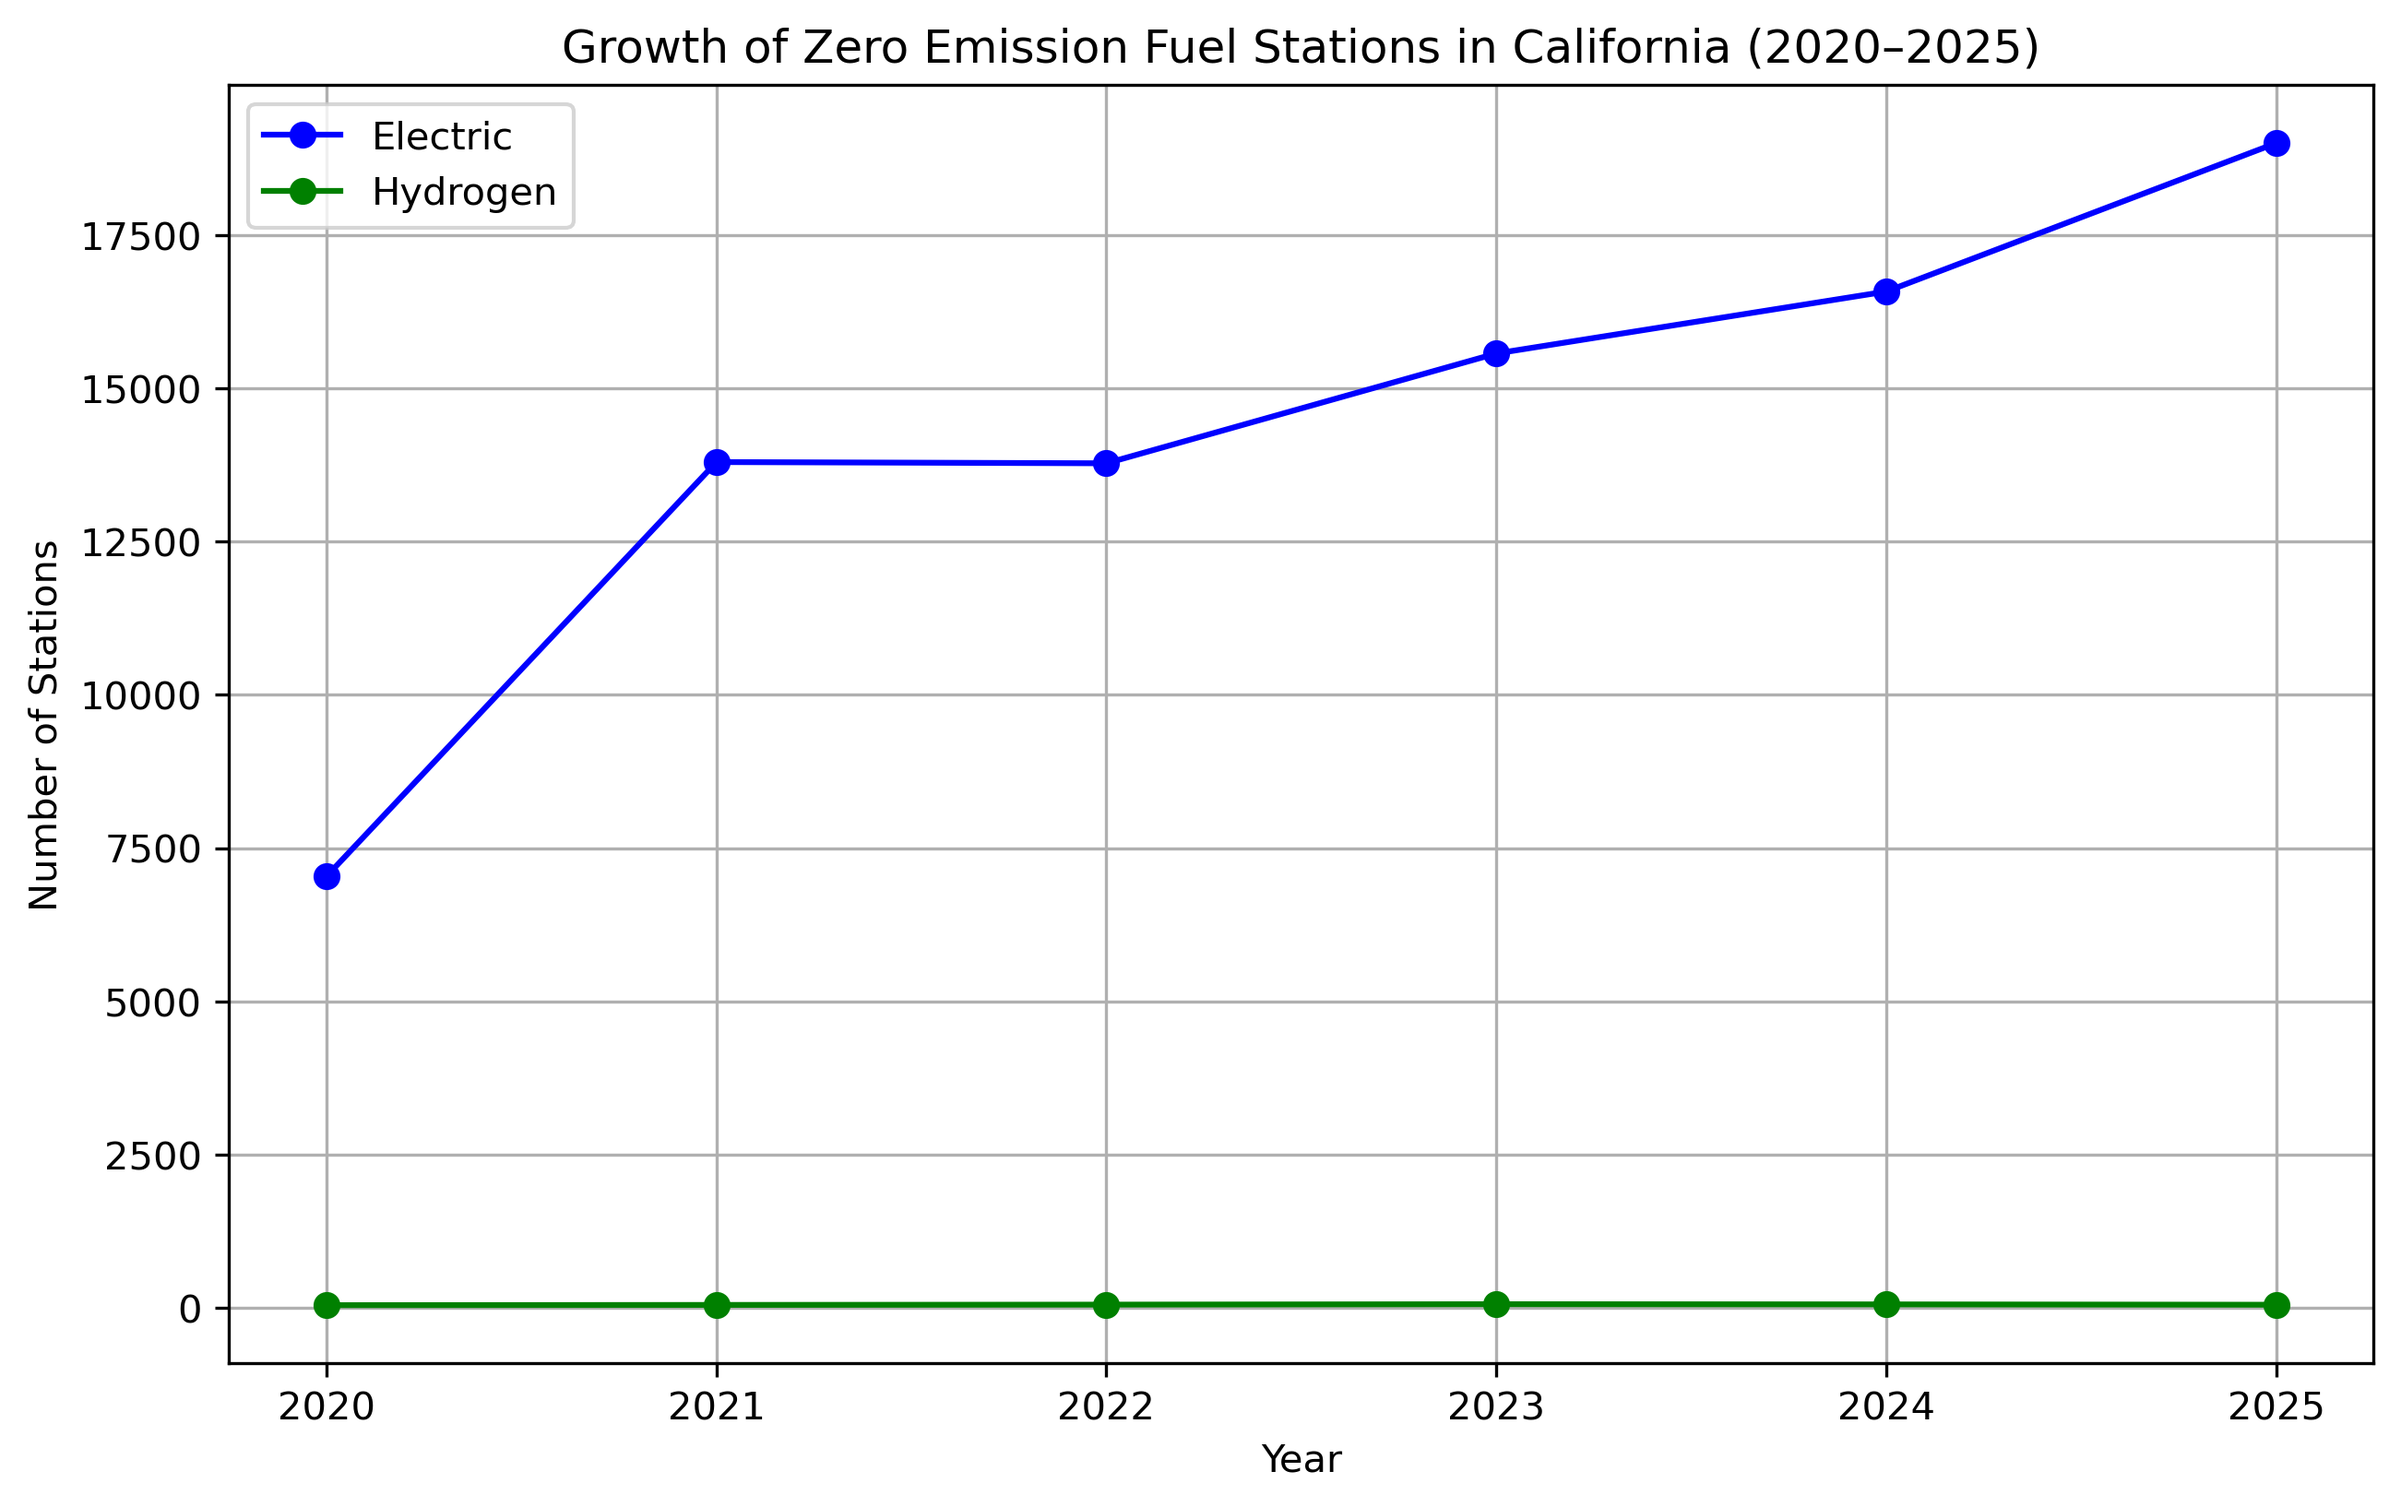
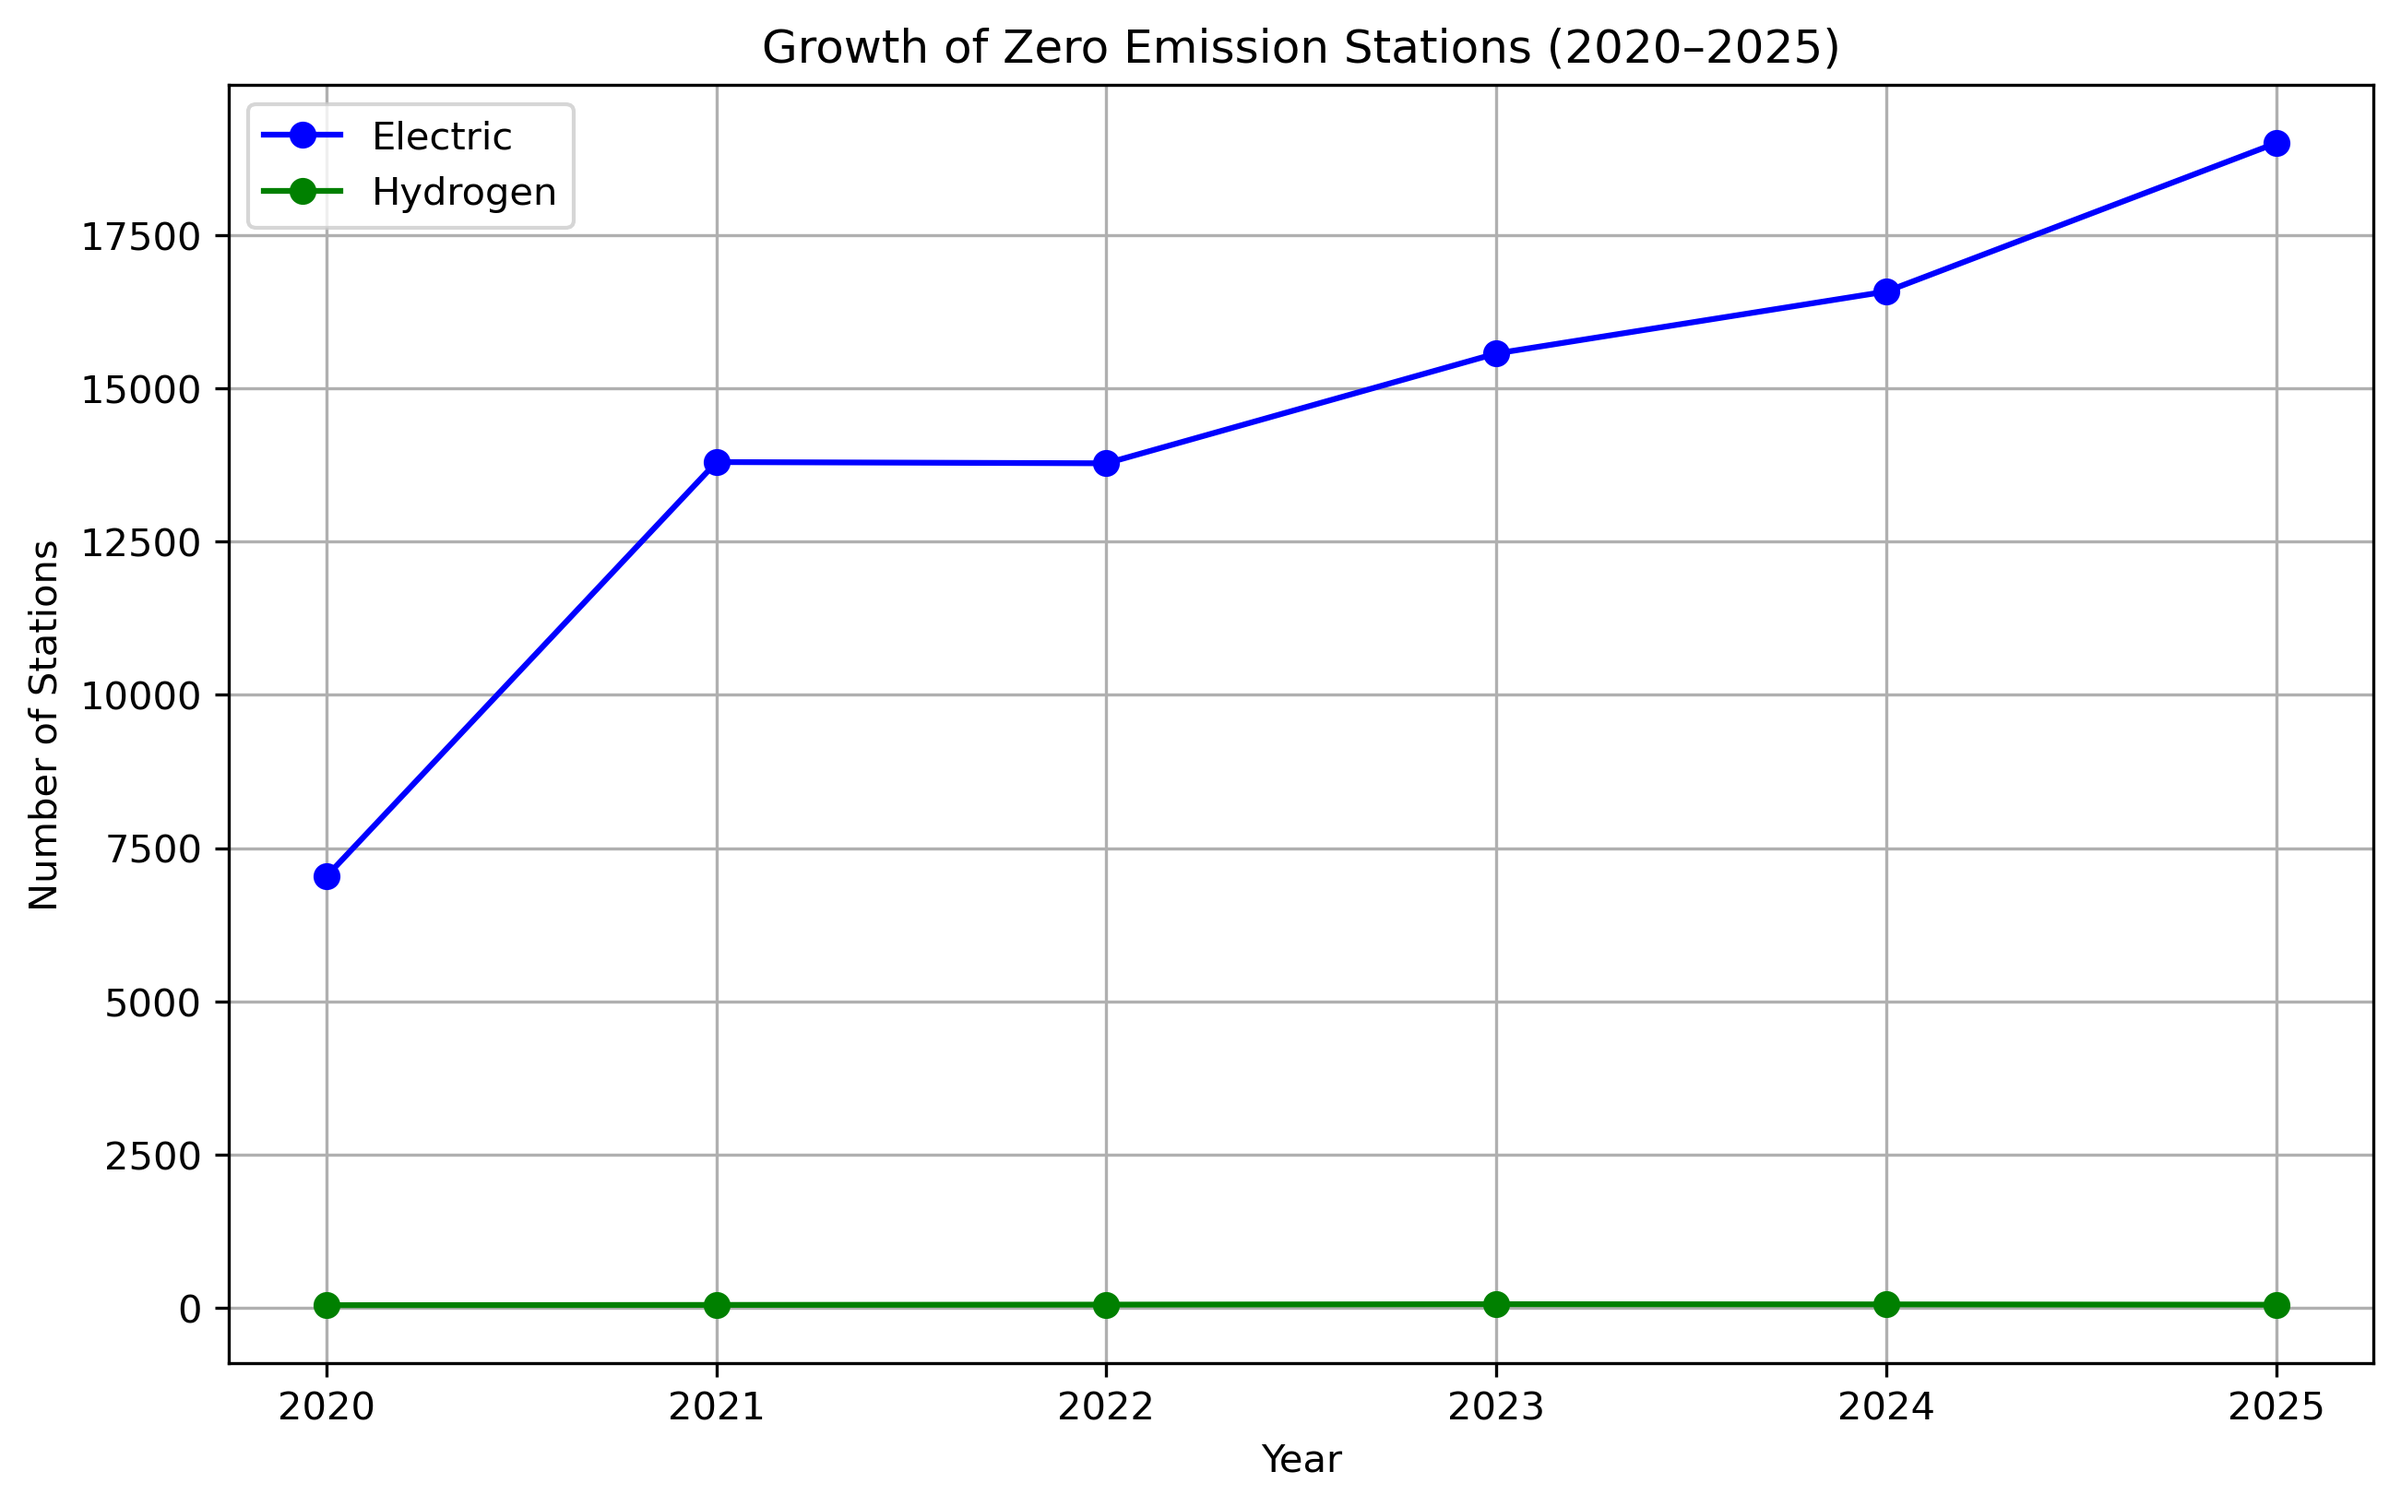
a

Changed region(s): [[0.3112, 0.0, 0.8402, 0.0624], [0.2489, 0.0312, 0.2801, 0.0624]]

diff --git a/stat_analysis.py b/stat_analysis.py
@@ -1,53 +1,82 @@
-
-""" 
-Zero Emission Vehicles Charger Analysis
+"""
+Zero Emissions Vehicles Charger Stations Analysis
 Input: stations_2020_2025.csv
-Output: 
+Output: plots
+"""
 
-""" 
-# import necessary modules
-import pandas as pd 
-import matplotlib.pyplot as plt  
+import os
+import pandas as pd
+import matplotlib.pyplot as plt
 
-# Load data
+# -----------------------------
+# Load dataset
+# -----------------------------
 df = pd.read_csv("stations_2020_2025.csv")
 
-
+# -----------------------------
 # Clean columns
+# -----------------------------
 df.columns = df.columns.str.strip()
-
-df = df.copy()
-
+df["Fuel Type Code"] = (
+    df["Fuel Type Code"]
+    .astype(str)
+    .str.upper()
+    .str.strip()
+)
 df["ZIP"] = df["ZIP"].astype(str).str.strip()
+df["Year"] = pd.to_numeric(df["Year"], errors="coerce").astype("Int64")
 
-df["Fuel Type Code"] = df["Fuel Type Code"].astype(str).str.strip().str.upper()
-df["Year"] = pd.to_numeric(df["Year"], errors="coerce")
 df = df.dropna(subset=["Year"])
-df["Year"] = df["Year"].astype(int)
 
-print(df[df["Fuel Type Code"] == "HY"])
-print("HY count:", (df["Fuel Type Code"] == "HY").sum())
+# -----------------------------
+# Output folder
+# -----------------------------
+os.makedirs("outputs", exist_ok=True)
 
-# Split by Fuel Type
-df_elec = df[df["Fuel Type Code"] == "ELEC"]
-df_hy = df[df["Fuel Type Code"] == "HY"]
+# =========================================================
+# 1. YEARLY GROWTH (ELEC vs HY)
+# =========================================================
+growth = df.groupby(["Year", "Fuel Type Code"]).size().unstack(fill_value=0)
 
+plt.figure(figsize=(10,6))
 
-# Top 10 Zip Codes for Each
-elec_top10 = df_elec["ZIP"].value_counts().head(10).sort_values()
-hy_top10 = df_hy["ZIP"].value_counts().head(10).sort_values()
+plt.plot(growth.index, growth["ELEC"], marker="o", label="Electric (ELEC)", color="blue")
+plt.plot(growth.index, growth["HY"], marker="o", label="Hydrogen (HY)", color="green")
 
-# Plot
+plt.title("ZEV Station Growth (2020–2025)")
+plt.xlabel("Year")
+plt.ylabel("Number of Stations")
+plt.legend()
+plt.grid(True, alpha=0.3)
+
+plt.tight_layout()
+plt.savefig("outputs/growth_comparison.png", dpi=300)
+plt.show()
+
+# =========================================================
+# 2. TOP 10 ZIP CODES
+# =========================================================
+elec_top10 = (
+    df[df["Fuel Type Code"] == "ELEC"]["ZIP"]
+    .value_counts()
+    .head(10)
+    .sort_values()
+)
+
+hy_top10 = (
+    df[df["Fuel Type Code"] == "HY"]["ZIP"]
+    .value_counts()
+    .head(10)
+    .sort_values()
+)
+
 plt.figure(figsize=(14,6))
 
-#  Electric 
+# Electric
 plt.subplot(1,2,1)
 plt.barh(elec_top10.index, elec_top10.values, color="blue")
-plt.title("Top 10 ZIPs - Electric Charging Stations")
+plt.title("Top 10 ZIPs - Electric Stations")
 plt.xlabel("Number of Stations")
-
-for i, v in enumerate(elec_top10.values):
-    plt.text(v, i, str(v), va='center')
 
 # Hydrogen
 plt.subplot(1,2,2)
@@ -55,44 +84,7 @@ plt.barh(hy_top10.index, hy_top10.values, color="green")
 plt.title("Top 10 ZIPs - Hydrogen Stations")
 plt.xlabel("Number of Stations")
 
-for i, v in enumerate(hy_top10.values):
-    plt.text(v, i, str(v), va='center')
-
 plt.tight_layout()
-
-# Save image
-plt.savefig("outputs/top10_zip_charger_stations.png", dpi=300, bbox_inches="tight")
-
+plt.savefig("outputs/top10_zip_chargers.png", dpi=300)
 plt.show()
-
-# CUMULATIVE GROWTH TREND
-
-
-trend = df.groupby(["Year", "Fuel Type Code"]).size().unstack(fill_value=0)
-trend = trend.reindex(columns=["ELEC", "HY"], fill_value=0)
-trend = trend.sort_index()
-
-
-# --- Plot ---
-plt.figure(figsize=(10,6))
-
-plt.plot(trend.index, trend["ELEC"], marker="o", label="Electric", color="blue")
-plt.plot(trend.index, trend["HY"], marker="o", label="Hydrogen", color="green")
-
-plt.title("Growth of Zero Emission Fuel Stations in California (2020–2025)")
-plt.xlabel("Year")
-plt.ylabel("Number of Stations")
-plt.legend()
-plt.grid(True)
-
-# --- Save output ---
-import os
-os.makedirs("outputs", exist_ok=True)
-
-plt.savefig("outputs/station_growth_trend.png", dpi=300, bbox_inches="tight")
-
-plt.show()
-
-
-print(df[df["Fuel Type Code"].str.contains("H", na=False)])
 

diff --git a/stat_filter.py b/stat_filter.py
@@ -1,11 +1,14 @@
 """
-Zero Emissions Vehicles Charger Stations Analysis
+Zero Emissions Vehicles Charger Stations - DATA BUILD STEP
+Input: stat_20.csv ... stat_25.csv
 Output: stations_2020_2025.csv
 """
- 
-# Import required modules
-import pandas as pd 
 
+import pandas as pd
+
+# -----------------------------
+# Input files with years
+# -----------------------------
 files = {
     "stat_20.csv": 2020,
     "stat_21.csv": 2021,
@@ -15,24 +18,40 @@ files = {
     "stat_25.csv": 2025
 }
 
-dfs = [] 
+dfs = []
 
+# -----------------------------
+# Load and tag each year
+# -----------------------------
 for file, year in files.items():
     df = pd.read_csv(file)
     df["Year"] = year
     dfs.append(df)
 
+# -----------------------------
 # Combine all years
+# -----------------------------
 combined = pd.concat(dfs, ignore_index=True)
 
-# Filter for California and fuel types ELEC and HY
+# -----------------------------
+# Clean + filter
+# -----------------------------
+combined["State"] = combined["State"].astype(str).str.strip()
+combined["Fuel Type Code"] = combined["Fuel Type Code"].astype(str).str.strip().str.upper()
+
 filtered = combined[
     (combined["State"] == "CA") &
     (combined["Fuel Type Code"].isin(["ELEC", "HY"]))
 ]
 
-# Select only required columns
-final_df = filtered[["Year", "Fuel Type Code","ZIP", "Station Name"]]
+# -----------------------------
+# Select final columns
+# -----------------------------
+final_df = filtered[["Year", "Fuel Type Code", "ZIP", "Station Name"]]
 
-# Save to CSV
+# -----------------------------
+# Save output
+# -----------------------------
 final_df.to_csv("stations_2020_2025.csv", index=False)
+
+print("Dataset created: stations_2020_2025.csv")
